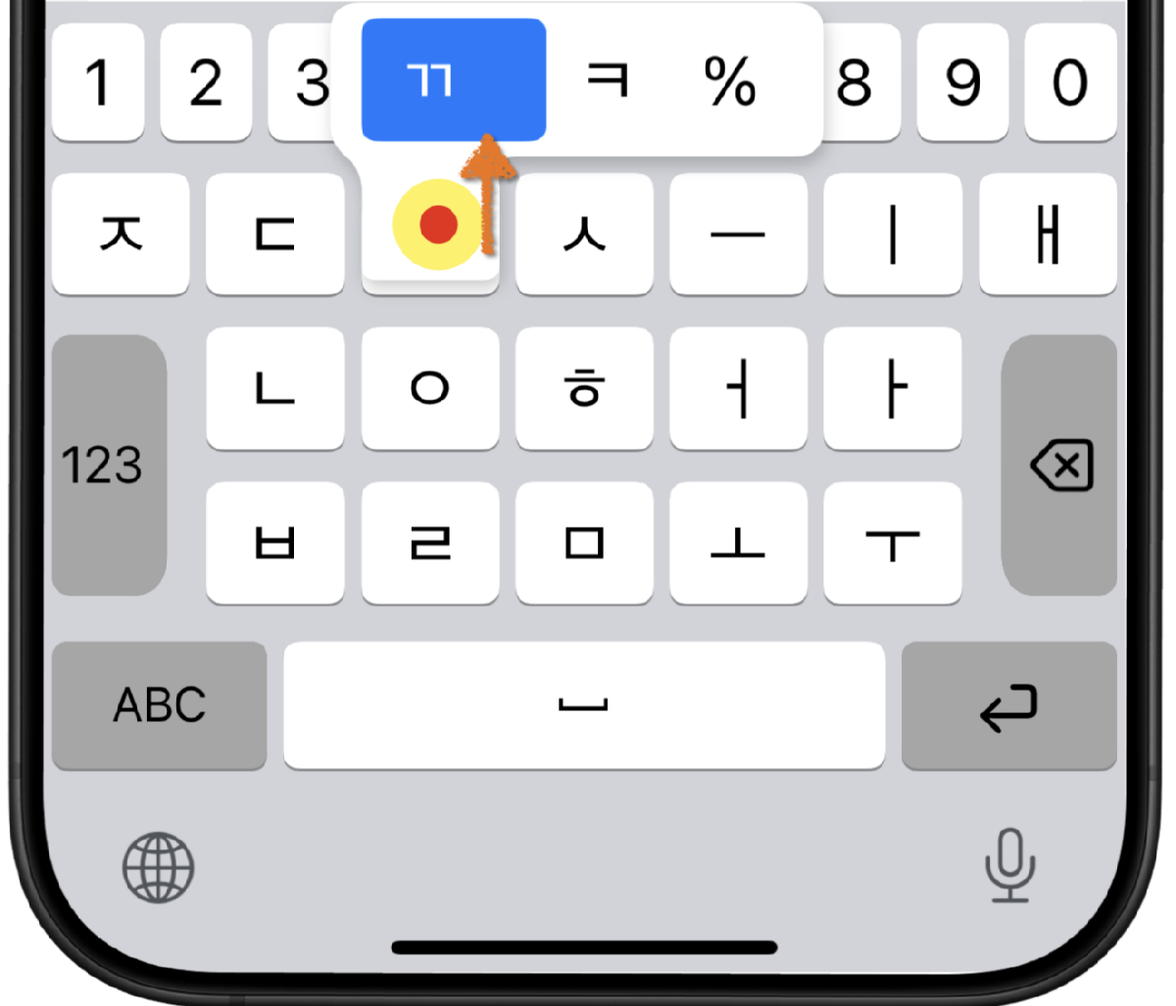
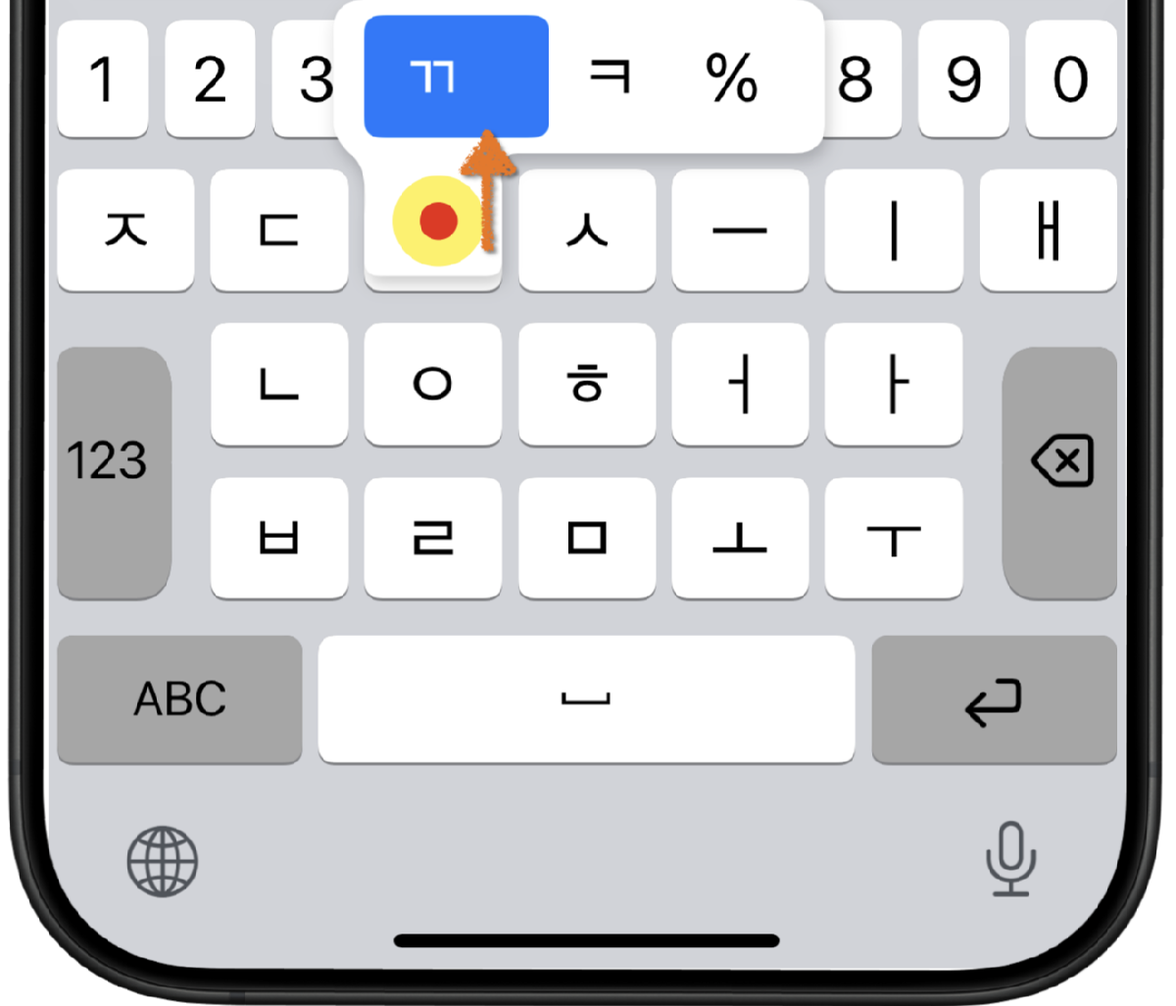
Add files via upload

diff --git a/manual.html b/manual.html
@@ -5,28 +5,28 @@
 	<meta name="viewport" content="width=device-width, initial-scale=1">
 	<meta name="generator" content="RocketCake">
 	<title></title>
-	<link rel="stylesheet" type="text/css" href="manual_html.css?h=e76957f0">
+	<link rel="stylesheet" type="text/css" href="manual_html.css?h=7f5da9fb">
 </head>
 <body>
 <div class="textstyle1">
-<div id="container_3a41f573"><div class="textstyle1"><div id="container_3ca14934"><div id="container_3ca14934_padding" ><div class="textstyle2"><div id="container_2e18e390"><div id="container_2e18e390_padding" ><div class="textstyle2"></div>
-<div class="textstyle1">  <span class="textstyle3">&#45800;&#51088;&#51020;&#53412;</span>
+<span class="textstyle2">&#12619;</span><div id="container_3a41f573"><div class="textstyle1"><div id="container_3ca14934"><div id="container_3ca14934_padding" ><div class="textstyle3"><div id="container_2e18e390"><div id="container_2e18e390_padding" ><div class="textstyle3"></div>
+<div class="textstyle1">  <span class="textstyle4">&#45800;&#51088;&#51020;&#53412;</span>
 </div>
-</div></div><div id="container_5e11d928"><div class="textstyle4"><div id="container_2d7b4969"><div class="textstyle4"><span class="textstyle5"><a href="index.html">Home</a></span><span class="textstyle5"><br/></span><span class="textstyle5"><a href="about.html">About</a></span><span class="textstyle5"><br/></span><span class="textstyle5"><a href="contact.html">Contact</a></span><span class="textstyle5"><br/></span><span class="textstyle6"><a href="manual.html">Manual</a></span><span class="textstyle5"><br/></span></div>
+</div></div><div id="container_5e11d928"><div class="textstyle5"><div id="container_2d7b4969"><div class="textstyle5"><span class="textstyle6"><a href="index.html">Home</a></span><span class="textstyle6"><br/></span><span class="textstyle6"><a href="about.html">About</a></span><span class="textstyle6"><br/></span><span class="textstyle6"><a href="contact.html">Contact</a></span><span class="textstyle6"><br/></span><span class="textstyle7"><a href="manual.html">Manual</a></span><span class="textstyle6"><br/></span></div>
 </div></div>
 </div></div>
-<div style="clear:both"></div></div></div><div id="container_42e1be39"><div class="textstyle1"><img src="rc_images/djmkey_dark_wide_0061_1200x690.png" width="1200" height="690" id="img_76372fca" alt="" title="" /></div>
-</div><span class="textstyle7"><br/></span><span class="textstyle8"><br/></span><div id="container_541cc4d"><div id="container_541cc4d_padding" ><div class="textstyle2"><span class="textstyle9"><br/><br/>    </span><span class="textstyle10">&#45800;&#51088;&#51020;&#53412; &#47700;&#45684;&#50620;<br/></span><span class="textstyle9"><br/></span><span class="textstyle9"><br/><br/></span><img src="rc_images/djmkey_light_004_1096x1200.png" width="1096" height="1200" id="img_3ca701ed" alt="" title="" /><div id="container_5ed9721c"><div id="container_5ed9721c_padding" ><div class="textstyle2"><span class="textstyle11">&#44217;&#51088;&#51020; &#48143; &#44221;&#51088;&#51020; &#47564;&#46308;&#44592; (&#52395;&#48264;&#51704; &#48169;&#48277;)</span><span class="textstyle12"><br/>&#50500;&#47000; &#51088;&#49548;&#46308;&#51008; &#45908;&#48660; &#53552;&#52824;&#47196; &#47564;&#46317;&#45768;&#45796;<br/>- &#51088;&#51020; 6&#44060;: &#12619; &#12620; &#12618; &#12621; &#12611; &#12614;   <br/>- &#47784;&#51020;: &#12625; &#12629; &#12635; ...<br/><br/>&#50500;&#47000; &#51088;&#49548;&#46308;&#51008; &#53944;&#47532;&#54540; &#53552;&#52824;&#47196; &#47564;&#46317;&#45768;&#45796;<br/>&#12594; &#12600; &#12617; (3&#44032;&#51648; &#51088;&#51020;)  <br/></span></div>
-</div></div><span class="textstyle9"><br/><br/><br/></span><img src="rc_images/djmkey_light_006_1200x1027.png" width="1200" height="1027" id="img_4902854c" alt="" title="" /><div id="container_62709428"><div id="container_62709428_padding" ><div class="textstyle2"><span class="textstyle11">&#44217;&#51088;&#51020; &#48143; &#44221;&#51088;&#51020; &#47564;&#46308;&#44592; (&#46160;&#48264;&#51704; &#48169;&#48277;)</span><span class="textstyle12"><br/>&#44217;&#51088;&#51020; &#45824;&#51025; &#53412; &#8216;&#12593;&#8217; &#48260;&#53948;&#51012; &#44600;&#44172; &#53552;&#52824; &#54980; &#50948;&#51901; &#48169;&#54693;&#51004;&#47196; &#54540;&#47549;(&#50424;&#50612;&#50732;&#47532;&#44592;) &#54633;&#45768;&#45796; </span></div>
-</div></div><span class="textstyle9"><br/><br/></span><img src="rc_images/djmkey_light_007.png" width="1320" height="968" id="img_250423ca" alt="" title="" /><div id="container_4c8cc367"><div id="container_4c8cc367_padding" ><div class="textstyle2"><span class="textstyle11">&#51096;&#47803; &#51077;&#47141;&#46108; &#44221;&#51088;&#49548;&#51032; &#45800;&#51088;&#49548; &#46308;&#51012; &#44221;&#51088;&#49548;&#47196; &#48320;&#54872;</span><span class="textstyle12"><br/>'&#12594;' &#51012; &#8216;&#12619;&#12593;&#8217; &#50752; &#44057;&#51060; &#51096;&#47803;&#51077;&#47141;&#54620; &#44163;&#51060;&#46972;&#47732; &#53412;&#48372;&#46300; &#50612;&#45712; &#44275;&#51060;&#46304; &#50500;&#47000; &#48169;&#54693;&#51004;&#47196; &#54540;&#47549;&#54633;&#45768;&#45796; <br/><br/></span><span class="textstyle11">&#51088;&#8203;&#49548; &#49325;&#51228; (&#46160;&#48264;&#51704; &#48169;&#48277;)</span><span class="textstyle12"><br/>&#50696;) '&#44036;' &#51012; &#51077;&#47141;&#54620; &#54980; '&#12596;'&#51012; &#49325;&#51228;&#54616;&#44592;&#50948;&#54644; &#50612;&#45712; &#44275;&#50640;&#49436;&#46304;&#51648; &#50500;&#47000; &#48169;&#54693;&#51004;&#47196; &#54540;&#47549;&#54633;&#45768;&#45796;</span></div>
-</div></div><span class="textstyle9"><br/><br/><br/></span><img src="rc_images/djmkey_light_008.png" width="1320" height="965" id="img_5475a51b" alt="" title="" /><div id="container_4fe2a894"><div id="container_4fe2a894_padding" ><div class="textstyle2"><span class="textstyle11">&#46160;&#48264;&#51704; &#53412; &#47564;&#46308;&#44592; (&#52395;&#48264;&#51704; &#48169;&#48277;)</span><span class="textstyle12"><br/>&#50696;) ' 8 &#8216; &#53412;&#47484; &#50948;&#54644; ' &#12622; '&#53412;&#47484; &#45572;&#47476;&#51088; &#47560;&#51088; &#50948; &#48169;&#54693; &#54540;&#47549;(&#50424;&#50612;&#50732;&#47532;&#44592;) &#54633;&#45768;&#45796;</span></div>
-</div></div><span class="textstyle9"><br/><br/><br/></span><img src="rc_images/djmkey_light_009.png" width="1320" height="969" id="img_1c6e0b8e" alt="" title="" /><div id="container_5a2c13b7"><div id="container_5a2c13b7_padding" ><div class="textstyle2"><span class="textstyle11">&#46160;&#48264;&#51704; &#53412; &#47564;&#46308;&#44592; (&#46160;&#48264;&#51704; &#48169;&#48277;)</span><span class="textstyle12"><br/>&#50696;) '8'&#53412;&#47484; &#47564;&#46308;&#44592;&#50948;&#54644; &#8216;123&#8217;&#53412;&#47484; 0.5&#52488; &#51060;&#49345; &#45572;&#47480; &#52292;&#47196; &#50628;&#51648;&#47484; '&#12622;' &#50948;&#52824;&#47196; &#45132;&#50612; &#49440;&#53469;&#54616;&#44144;&#45208; &#45796;&#47480; &#49552;&#44032;&#46973;&#51004;&#47196; &#45572;&#47493;&#45768;&#45796;<br/></span></div>
-</div></div><span class="textstyle9"><br/><br/><br/></span><img src="rc_images/djmkey_light_010_1200x1016.png" width="1200" height="1016" id="img_426fe36" alt="" title="" /><div id="container_7e510c81"><div id="container_7e510c81_padding" ><div class="textstyle2">  <span class="textstyle11">&#51088;&#51020; &#47784;&#51020; &#46041;&#49884;&#50640; &#45572;&#47476;&#44592; (&#47680;&#54000; &#53552;&#52824;) </span>
+<div style="clear:both"></div></div></div><div id="container_42e1be39"><div class="textstyle1"><img src="rc_images/djmkey_dark_wide_0061_1200x610.png" width="1200" height="610" id="img_3dbc5511" alt="" title="" /></div>
+</div><span class="textstyle8"><br/></span><span class="textstyle9"><br/></span><div id="container_541cc4d"><div id="container_541cc4d_padding" ><div class="textstyle3"><span class="textstyle2"><br/><br/>    </span><span class="textstyle10">&#45800;&#51088;&#51020;&#53412; &#47700;&#45684;&#50620;<br/></span><span class="textstyle2"><br/></span><span class="textstyle2"><br/><br/></span><img src="rc_images/djmkey_light_004_1104x1200.png" width="1104" height="1200" id="img_5be0ad15" alt="" title="" /><div id="container_5ed9721c"><div id="container_5ed9721c_padding" ><div class="textstyle3"><span class="textstyle11">&#44217;&#51088;&#51020; &#48143; &#44221;&#51088;&#51020; &#47564;&#46308;&#44592; (&#52395;&#48264;&#51704; &#48169;&#48277;)</span><span class="textstyle12"><br/>&#50500;&#47000; &#51088;&#49548;&#46308;&#51008; &#45908;&#48660; &#53552;&#52824;&#47196; &#47564;&#46317;&#45768;&#45796;<br/>- &#51088;&#51020; 6&#44060;: &#12619; &#12620; &#12618; &#12621; &#12611; &#12614;   <br/>- &#47784;&#51020;: &#12625; &#12629; &#12635; ...<br/><br/>&#50500;&#47000; &#51088;&#49548;&#46308;&#51008; &#53944;&#47532;&#54540; &#53552;&#52824;&#47196; &#47564;&#46317;&#45768;&#45796;<br/>&#12594; &#12600; &#12617; (3&#44032;&#51648; &#51088;&#51020;)  <br/></span></div>
+</div></div><span class="textstyle2"><br/><br/><br/></span><img src="rc_images/djmkey_light_006_1200x1027.png" width="1200" height="1027" id="img_15f9c727" alt="" title="" /><div id="container_62709428"><div id="container_62709428_padding" ><div class="textstyle3"><span class="textstyle11">&#44217;&#51088;&#51020; &#48143; &#44221;&#51088;&#51020; &#47564;&#46308;&#44592; (&#46160;&#48264;&#51704; &#48169;&#48277;)</span><span class="textstyle12"><br/>&#44217;&#51088;&#51020; &#45824;&#51025; &#53412; &#8216;&#12593;&#8217; &#48260;&#53948;&#51012; &#44600;&#44172; &#53552;&#52824; &#54980; &#50948;&#51901; &#48169;&#54693;&#51004;&#47196; &#54540;&#47549;(&#50424;&#50612;&#50732;&#47532;&#44592;) &#54633;&#45768;&#45796; </span></div>
+</div></div><span class="textstyle2"><br/><br/></span><img src="rc_images/djmkey_light_007.png" width="1320" height="964" id="img_297d27c3" alt="" title="" /><div id="container_4c8cc367"><div id="container_4c8cc367_padding" ><div class="textstyle3"><span class="textstyle11">&#51096;&#47803; &#51077;&#47141;&#46108; &#44221;&#51088;&#49548;&#51032; &#45800;&#51088;&#49548; &#46308;&#51012; &#44221;&#51088;&#49548;&#47196; &#48320;&#54872;</span><span class="textstyle12"><br/>'&#12594;' &#51012; &#8216;&#12619;&#12593;&#8217; &#50752; &#44057;&#51060; &#51096;&#47803;&#51077;&#47141;&#54620; &#44163;&#51060;&#46972;&#47732; &#53412;&#48372;&#46300; &#50612;&#45712; &#44275;&#51060;&#46304; &#50500;&#47000; &#48169;&#54693;&#51004;&#47196; &#54540;&#47549;&#54633;&#45768;&#45796; <br/><br/></span><span class="textstyle11">&#51088;&#8203;&#49548; &#49325;&#51228; (&#46160;&#48264;&#51704; &#48169;&#48277;)</span><span class="textstyle12"><br/>&#50696;) '&#44036;' &#51012; &#51077;&#47141;&#54620; &#54980; '&#12596;'&#51012; &#49325;&#51228;&#54616;&#44592;&#50948;&#54644; &#50612;&#45712; &#44275;&#50640;&#49436;&#46304;&#51648; &#50500;&#47000; &#48169;&#54693;&#51004;&#47196; &#54540;&#47549;&#54633;&#45768;&#45796;</span></div>
+</div></div><span class="textstyle2"><br/><br/><br/></span><img src="rc_images/djmkey_light_008.png" width="1320" height="971" id="img_71fbe97c" alt="" title="" /><div id="container_4fe2a894"><div id="container_4fe2a894_padding" ><div class="textstyle3"><span class="textstyle11">&#46160;&#48264;&#51704; &#53412; &#47564;&#46308;&#44592; (&#52395;&#48264;&#51704; &#48169;&#48277;)</span><span class="textstyle12"><br/>&#50696;) ' 8 &#8216; &#53412;&#47484; &#50948;&#54644; ' &#12622; '&#53412;&#47484; &#45572;&#47476;&#51088; &#47560;&#51088; &#50948; &#48169;&#54693; &#54540;&#47549;(&#50424;&#50612;&#50732;&#47532;&#44592;) &#54633;&#45768;&#45796;</span></div>
+</div></div><span class="textstyle2"><br/><br/><br/></span><img src="rc_images/djmkey_light_009.png" width="1320" height="965" id="img_1ebebf5c" alt="" title="" /><div id="container_5a2c13b7"><div id="container_5a2c13b7_padding" ><div class="textstyle3"><span class="textstyle11">&#46160;&#48264;&#51704; &#53412; &#47564;&#46308;&#44592; (&#46160;&#48264;&#51704; &#48169;&#48277;)</span><span class="textstyle12"><br/>&#50696;) '8'&#53412;&#47484; &#47564;&#46308;&#44592;&#50948;&#54644; &#8216;123&#8217;&#53412;&#47484; 0.5&#52488; &#51060;&#49345; &#45572;&#47480; &#52292;&#47196; &#50628;&#51648;&#47484; '&#12622;' &#50948;&#52824;&#47196; &#45132;&#50612; &#49440;&#53469;&#54616;&#44144;&#45208; &#45796;&#47480; &#49552;&#44032;&#46973;&#51004;&#47196; &#45572;&#47493;&#45768;&#45796;<br/></span></div>
+</div></div><span class="textstyle2"><br/><br/><br/></span><img src="rc_images/djmkey_light_010_1200x1019.png" width="1200" height="1019" id="img_80e4e6e" alt="" title="" /><div id="container_7e510c81"><div id="container_7e510c81_padding" ><div class="textstyle3">  <span class="textstyle11">&#51088;&#51020; &#47784;&#51020; &#46041;&#49884;&#50640; &#45572;&#47476;&#44592; (&#47680;&#54000; &#53552;&#52824;) </span>
   <span class="textstyle12"><br/>&#50696;) ' &#44036; ' : &#50628;&#51648;&#47484; &#46524;&#51648; &#50506;&#44256; &#45796;&#47480; &#50628;&#51648;&#47196; &#51088;&#49548;&#47484; &#45572;&#47476;&#45716; &#47680;&#54000; &#53552;&#52824;&#44032; &#50756;&#51204;&#54616;&#44172; &#44396;&#54788;&#46104;&#50612; &#51080;&#49845;&#45768;&#45796; </span>
 </div>
-</div></div><span class="textstyle9"><br/></span><img src="rc_images/djmkey_light_003_552x1200.png" width="552" height="1200" id="img_450824da" alt="" title="" /><div id="container_4a065c39"><div id="container_4a065c39_padding" ><div class="textstyle2">  <span class="textstyle12"><br/><br/><br/><br/><br/>&#50741;&#49496; &#47588;&#45684;&#51077;&#45768;&#45796;<br/></span>
+</div></div><span class="textstyle2"><br/></span><img src="rc_images/djmkey_light_003_552x1200.png" width="552" height="1200" id="img_450824da" alt="" title="" /><div id="container_4a065c39"><div id="container_4a065c39_padding" ><div class="textstyle3">  <span class="textstyle12"><br/><br/><br/><br/><br/>&#50741;&#49496; &#47588;&#45684;&#51077;&#45768;&#45796;<br/></span>
 </div>
-</div></div><span class="textstyle9"><br/></span><span class="textstyle9"><br/></span></div>
+</div></div><span class="textstyle2"><br/></span><span class="textstyle2"><br/></span></div>
 <div style="clear:both"></div></div></div><span class="textstyle13"><br/></span><span class="textstyle14">Copyright 2025 &#51648;&#45824;&#49440;. All rights reserved</span><span class="textstyle13"><br/></span></div>
 </div>  </div>
 </body>

diff --git a/index.html b/index.html
@@ -7,7 +7,7 @@
 <meta name="keywords" content=“단자음키, 단자음키보드, 엄지키, 엄지키보드, 한글키보드추천, 아이폰한글키보드, 한글키, 한글키보드, 단모음, 단키, 넥스트플랜, nextplan, 핸드폰”>
 <meta name="description" content=“단자음키는 핸드폰에서 한글 입력시 단자음 10키와 단모음 8키를 이용하며 자동 오타 교정과 함께 동시 누름 방식을 적용하여 자연스러운 키 입력이 되도록 하였음”>
 <title>단자음키 한글 키보드</title>
-	<link rel="stylesheet" type="text/css" href="index_html.css?h=94f8d3e3">
+	<link rel="stylesheet" type="text/css" href="index_html.css?h=9ace95ab">
 </head>
 <body>
 <div class="textstyle1">
@@ -17,7 +17,7 @@
 </div></div><div id="container_785dbb6"><div class="textstyle4"><div id="container_77609974"><div class="textstyle4"><span class="textstyle5"><a href="index.html">Home</a></span><span class="textstyle5"><br/></span><span class="textstyle5"><a href="about.html">About</a></span><span class="textstyle5"><br/></span><span class="textstyle5"><a href="contact.html">Contact</a></span><span class="textstyle5"><br/></span><span class="textstyle6"><a href="manual.html">Manual</a></span></div>
 </div></div>
 </div></div>
-<div style="clear:both"></div></div></div><div id="container_4a5a90a8"><div class="textstyle2"><img src="rc_images/djmkey_dark_wide_001_1104x1200.png" width="1104" height="1200" id="img_614a360" alt="" title="" /></div>
+<div style="clear:both"></div></div></div><div id="container_4a5a90a8"><div class="textstyle2"><img src="rc_images/djmkey_dark_wide_001_1104x1200.png" width="1104" height="1200" id="img_2145fd1" alt="" title="" /></div>
 <div class="textstyle1"><span class="textstyle7"><br/></span><a href="about.html" style="text-decoration:none"><div id="button_263f8a00"><div class="vcenterstyle1"><div class="vcenterstyle2"><div class="textstyle2"></div>
 <div class="textstyle1">  <span class="textstyle8">About</span>
 </div>
@@ -33,7 +33,7 @@
 <div style="clear:both"></div></div></div></div>
 <div style="clear:both"></div></div></div></div>
 <div class="textstyle2"><span class="textstyle13"><br/></span></div>
-<div class="textstyle1"><div id="container_28baa5e8"><div id="container_28baa5e8_padding" ><div class="textstyle2"><span class="textstyle14">&#50500;&#51060;&#54256; &#51221;&#44508; &#53412;&#48372;&#46300;&#44032; &#48520;&#54200;&#54616;&#44172; &#45712;&#44788;&#48376; &#51201;&#51060; &#51080;&#45796;&#47732; &#44536;&#44163;&#51008; &#50500;&#47560;, &#51088;&#49548; &#44208;&#54633;&#51004;&#47196; &#44396;&#49457;&#46104;&#45716; &#54620;&#44544;&#51032; &#53945;&#49457;&#51012; &#51228;&#45824;&#47196; &#48152;&#50689;&#54616;&#51648; &#47803;&#54616;&#45716; &#54620;&#44228;&#47484; &#45712;&#45180;&#44592; &#46412;&#47928;&#51068; &#44163;&#51077;&#45768;&#45796;<br/>&#51333;&#49457;&#44284; &#52488;&#49457;&#51012; &#54632;&#44760; &#49324;&#50857;&#54616;&#44256; &#51088;&#49548; &#44208;&#54633;&#51012; &#53945;&#49457;&#51004;&#47196; &#54616;&#45716; &#54620;&#44544;&#51012; &#50728;&#51204;&#55176; &#49324;&#50857;&#54624; &#49688; &#51080;&#50612;&#50556;&#44192;&#49845;&#45768;&#45796;<br/></span><span class="textstyle15">v1.4 (4&#50900; 30&#51068; &#50629;&#47196;&#46300; &#50696;&#51221; )<br/>&#53412; &#48372;&#46300; &#51088;&#54032; &#48176;&#50676; 18&#44060;&#50640;&#49436; 17&#44060;&#47196; &#48320;&#44221;<br/>-&gt; &#53412; &#48372;&#46300; &#48176;&#50676;&#51012; &#49884;&#51064;&#49457;&#51012; &#51339;&#44172;&#54616;&#44592;&#50948;&#54644; &#48148;&#46161;&#54032; &#49885; &#48176;&#50676;<br/>-&gt; &#51088;&#51020;&#44284; &#47784;&#51020; &#51088;&#54032; &#48176;&#50676;&#51060; &#49436;&#47196; &#52840;&#48276;&#54616;&#51648; &#50506;&#50500; &#51077;&#47141; &#49549;&#46020; &#54693;&#49345;</span><span class="textstyle14"><br/><br/></span><span class="textstyle16">[ &#44592;&#51316; &#45796;&#47480; &#53412;&#48372;&#46300;&#48372;&#45796; &#44060;&#49440;&#46108; &#51216; ]</span><span class="textstyle14"><br/></span><span class="textstyle17">1. &#48260;&#53948;&#51032; &#44079;&#49688;&#47484; &#53552;&#52824;&#50640; &#51201;&#45817;&#54620; &#44079;&#49688;&#47196; &#54616;&#50688;&#49845;&#45768;&#45796;</span><span class="textstyle14"><br/>   &#48260;&#53948;&#51060; &#45320;&#47924; &#47566;&#51004;&#47732; &#53552;&#52824; &#54943;&#49688;&#45716; &#51201;&#51004;&#45208; &#53552;&#52824; &#49892;&#49688; &#50724;&#53440;&#44032; &#47566;&#44256; &#45320;&#47924; &#51201;&#51004;&#47732; &#53412;&#51064; &#54943;&#49688;&#45716; &#51613;&#44032;&#46104;&#45208; &#53552;&#52824; &#49892;&#49688;&#44032; &#51201;&#50612;&#51665;&#45768;&#45796; <br/></span><span class="textstyle17">2. &#52572;&#45824;&#54620; &#48736;&#47480; &#53412;&#51064;&#51012; &#54624; &#49688; &#51080;&#46020;&#47197; &#54616;&#50688;&#49845;&#45768;&#45796;</span><span class="textstyle14"><br/>   &#50896;&#53552;&#52824;,&#45908;&#48660;&#53552;&#52824;,3&#45908;&#48660;&#53552;&#52824;(&#12594;,&#12600;, &#12617; 3&#44060;)&#47484; &#49324;&#50857;&#54616;&#50668; &#51648;&#50672; &#53552;&#52824;(&#54413;&#49440; &#47568; &#49324;&#50857;&#46321;) &#50630;&#51060; &#45233;&#47568;&#51060; &#50756;&#49457;&#46121;&#45768;&#45796;<br/>3. &#45908;&#48660;&#53552;&#52824;&#47448;&#51032; &#51088;&#49548;&#47196; &#51064;&#54620; &#50724;&#53440;(&#12619; -&gt; &#12593;&#12593;)&#47484; &#44368;&#51221;&#54616;&#45716; &#51088;&#46041; &#44053;&#51228;&#44368;&#51221; &#48143; &#44397;&#50612;&#49324;&#51204;(&#44397;&#47549;&#44397;&#50612;&#50896; &#54364;&#51456;&#44592;&#52488;&#49324;&#51204;)&#51012; &#52280;&#44256;&#54616;&#45716; &#51088;&#46041; &#49324;&#51204;&#44368;&#51221;&#51004;&#47196; &#52376;&#47532;&#54633;&#45768;&#45796;<br/>4. &#50577;&#49552; &#50628;&#51648;&#47484; &#46041;&#49884;&#50640; &#45572;&#47476;&#47728; &#53412;&#51064;&#51012; &#51060;&#50612;&#44032;&#45716; &#47680;&#54000;&#53552;&#52824;&#44032; &#50756;&#51204;&#54616;&#44172; &#44396;&#54788;&#46104;&#50612; &#51080;&#49845;&#45768;&#45796; &#45236;&#48512;&#51201;&#51004;&#47196; &#51088;&#46041;&#44368;&#51221;&#51060; &#51652;&#54665;&#46104;&#50612;&#46020; &#51221;&#49345; &#52376;&#47532;&#46121;&#45768;&#45796;<br/><br/><br/></span></div>
+<div class="textstyle1"><div id="container_28baa5e8"><div id="container_28baa5e8_padding" ><div class="textstyle2"><span class="textstyle14">&#50500;&#51060;&#54256; &#51221;&#44508; &#53412;&#48372;&#46300;&#44032; &#48520;&#54200;&#54616;&#44172; &#45712;&#44788;&#48376; &#51201;&#51060; &#51080;&#45796;&#47732; &#44536;&#44163;&#51008; &#50500;&#47560;, &#51088;&#49548; &#44208;&#54633;&#51004;&#47196; &#44396;&#49457;&#46104;&#45716; &#54620;&#44544;&#51032; &#53945;&#49457;&#51012; &#51228;&#45824;&#47196; &#48152;&#50689;&#54616;&#51648; &#47803;&#54616;&#45716; &#54620;&#44228;&#47484; &#45712;&#45180;&#44592; &#46412;&#47928;&#51068; &#44163;&#51077;&#45768;&#45796;<br/>&#51333;&#49457;&#44284; &#52488;&#49457;&#51012; &#54632;&#44760; &#49324;&#50857;&#54616;&#44256; &#51088;&#49548; &#44208;&#54633;&#51012; &#53945;&#49457;&#51004;&#47196; &#54616;&#45716; &#54620;&#44544;&#51012; &#50728;&#51204;&#55176; &#49324;&#50857;&#54624; &#49688; &#51080;&#50612;&#50556;&#44192;&#49845;&#45768;&#45796;<br/><br/>v1.4 (4/30 &#48176;&#54252; &#50696;&#51221;)<br/></span><span class="textstyle15">&#53412; &#48372;&#46300; &#51088;&#54032; &#48176;&#50676; 18&#44060;&#50640;&#49436; 17&#44060;&#47196; &#48320;&#44221;<br/>-&gt; &#53412; &#48372;&#46300; &#48176;&#50676;&#51012; &#49884;&#51064;&#49457;&#51012; &#51339;&#44172;&#54616;&#44592;&#50948;&#54644; &#48148;&#46161;&#54032; &#49885; &#48176;&#50676;<br/>-&gt; &#51088;&#51020;&#44284; &#47784;&#51020; &#51088;&#54032; &#48176;&#50676;&#51060; &#49436;&#47196; &#52840;&#48276;&#54616;&#51648; &#50506;&#50500; &#51077;&#47141; &#49549;&#46020; &#54693;&#49345;</span><span class="textstyle14"><br/><br/></span><span class="textstyle16">[ &#44592;&#51316; &#45796;&#47480; &#53412;&#48372;&#46300;&#48372;&#45796; &#44060;&#49440;&#46108; &#51216; ]</span><span class="textstyle14"><br/></span><span class="textstyle17">1. &#48260;&#53948;&#51032; &#44079;&#49688;&#47484; &#53552;&#52824;&#50640; &#51201;&#45817;&#54620; &#44079;&#49688;&#47196; &#54616;&#50688;&#49845;&#45768;&#45796;</span><span class="textstyle14"><br/>   &#48260;&#53948;&#51060; &#45320;&#47924; &#47566;&#51004;&#47732; &#53552;&#52824; &#54943;&#49688;&#45716; &#51201;&#51004;&#45208; &#53552;&#52824; &#49892;&#49688; &#50724;&#53440;&#44032; &#47566;&#44256; &#45320;&#47924; &#51201;&#51004;&#47732; &#53412;&#51064; &#54943;&#49688;&#45716; &#51613;&#44032;&#46104;&#45208; &#53552;&#52824; &#49892;&#49688;&#44032; &#51201;&#50612;&#51665;&#45768;&#45796; <br/></span><span class="textstyle17">2. &#52572;&#45824;&#54620; &#48736;&#47480; &#53412;&#51064;&#51012; &#54624; &#49688; &#51080;&#46020;&#47197; &#54616;&#50688;&#49845;&#45768;&#45796;</span><span class="textstyle14"><br/>   &#50896;&#53552;&#52824;,&#45908;&#48660;&#53552;&#52824;,3&#45908;&#48660;&#53552;&#52824;(&#12594;,&#12600;, &#12617; 3&#44060;)&#47484; &#49324;&#50857;&#54616;&#50668; &#51648;&#50672; &#53552;&#52824;(&#54413;&#49440; &#47568; &#49324;&#50857;&#46321;) &#50630;&#51060; &#45233;&#47568;&#51060; &#50756;&#49457;&#46121;&#45768;&#45796;<br/>3. &#45908;&#48660;&#53552;&#52824;&#47448;&#51032; &#51088;&#49548;&#47196; &#51064;&#54620; &#50724;&#53440;(&#12619; -&gt; &#12593;&#12593;)&#47484; &#44368;&#51221;&#54616;&#45716; &#51088;&#46041; &#44053;&#51228;&#44368;&#51221; &#48143; &#44397;&#50612;&#49324;&#51204;(&#44397;&#47549;&#44397;&#50612;&#50896; &#54364;&#51456;&#44592;&#52488;&#49324;&#51204;)&#51012; &#52280;&#44256;&#54616;&#45716; &#51088;&#46041; &#49324;&#51204;&#44368;&#51221;&#51004;&#47196; &#52376;&#47532;&#54633;&#45768;&#45796;<br/>4. &#50577;&#49552; &#50628;&#51648;&#47484; &#46041;&#49884;&#50640; &#45572;&#47476;&#47728; &#53412;&#51064;&#51012; &#51060;&#50612;&#44032;&#45716; &#47680;&#54000;&#53552;&#52824;&#44032; &#50756;&#51204;&#54616;&#44172; &#44396;&#54788;&#46104;&#50612; &#51080;&#49845;&#45768;&#45796; &#45236;&#48512;&#51201;&#51004;&#47196; &#51088;&#46041;&#44368;&#51221;&#51060; &#51652;&#54665;&#46104;&#50612;&#46020; &#51221;&#49345; &#52376;&#47532;&#46121;&#45768;&#45796;<br/><br/><br/></span></div>
 </div></div></div>
 <div class="textstyle2"><span class="textstyle10"><br/></span><div id="container_749be54d"><div id="container_749be54d_padding" ><div class="textstyle1"><span class="textstyle18"><br/></span><div id="container_7ea221bd"><div id="container_7ea221bd_padding" ><div class="textstyle2"><span class="textstyle19">&#45800;&#51088;&#51020;&#53412;&#48372;&#46300;&#44032; &#51080;&#49845;&#45768;&#45796;!</span><span class="textstyle20"><br/><br/></span><span class="textstyle21">&#54200;&#50504;&#54620; &#48260;&#53948; &#53356;&#44592;, <br/>&#53552;&#52824; &#53412;&#51064; &#55120;&#47492;&#51012; &#44536;&#45824;&#47196; &#51060;&#50612;&#44032;&#45716;,<br/>&#50724;&#53440; &#50630;&#45716; &#53412; &#51077;&#47141;&#51060; &#44032;&#45733;&#54633;&#45768;&#45796;.<br/></span></div>
 </div></div><span class="textstyle22"><br/><br/></span></div>

diff --git a/manual_html.css b/manual_html.css
@@ -4,44 +4,44 @@ a:active { color:#0280E1; }
 a:hover { color:#B2B3B4; } 
 body { background-color:#FFFFFF; padding:0;  margin: 0; }
 .textstyle1 { text-align:center; }
+.textstyle2 { font-size:12pt; font-family:Arial, Helvetica, sans-serif; color:#000000;  }
 #container_3a41f573 { vertical-align: top; position:relative; display: inline-block; width:100%; background:none;  }
 #container_3ca14934 { vertical-align: top; position:relative; display: inline-block; width:100%; min-height:65px; background-color:#222222;  }
 #container_3ca14934_padding { margin: 10px; display: block;  }
-.textstyle2 { text-align:left; }
+.textstyle3 { text-align:left; }
 #container_2e18e390 { vertical-align: top; position:relative; display: inline-block; width:40%; min-height:60px; background:none;  }
 #container_2e18e390_padding { margin: 10px; display: block;  }
-.textstyle3 { font-size:44pt; font-family:Segoe, 'Segoe UI', 'Helvetica Neue', sans-serif; color:#FFFFFF; font-weight:bold;  }
+.textstyle4 { font-size:44pt; font-family:Segoe, 'Segoe UI', 'Helvetica Neue', sans-serif; color:#FFFFFF; font-weight:bold;  }
 #container_5e11d928 { vertical-align: top; position:relative; display: inline-block; width:60%; min-height:50px; background:none;  }
-.textstyle4 { text-align:right; }
+.textstyle5 { text-align:right; }
 #container_2d7b4969 { vertical-align: top; position:relative; display: inline-block; width:100%; background:none;  }
-.textstyle5 { font-size:14pt; font-family:Arial, Helvetica, sans-serif; color:#FFFFFF;  }
-.textstyle6 { font-size:14pt; font-family:Arial, Helvetica, sans-serif; color:#FFFFFF; font-weight:bold;  }
+.textstyle6 { font-size:14pt; font-family:Arial, Helvetica, sans-serif; color:#FFFFFF;  }
+.textstyle7 { font-size:14pt; font-family:Arial, Helvetica, sans-serif; color:#FFFFFF; font-weight:bold;  }
 #container_42e1be39 { vertical-align: top; position:relative; display: inline-block; width:100%; min-height:156px; background-color:#2B252D; background: linear-gradient(to bottom, #9A9AE0, #2B252D);  }
-#img_76372fca { vertical-align: bottom; position:relative; display: inline-block; width:50%; background:none; height:auto;  }
-.textstyle7 { font-size:15pt; font-family:Segoe, 'Segoe UI', 'Helvetica Neue', sans-serif; color:#20242E;  }
-.textstyle8 { font-size:15pt; font-family:Tahoma, Geneva, sans-serif; color:#20242E;  }
+#img_3dbc5511 { vertical-align: bottom; position:relative; display: inline-block; width:50%; background:none; height:auto;  }
+.textstyle8 { font-size:15pt; font-family:Segoe, 'Segoe UI', 'Helvetica Neue', sans-serif; color:#20242E;  }
+.textstyle9 { font-size:15pt; font-family:Tahoma, Geneva, sans-serif; color:#20242E;  }
 #container_541cc4d { vertical-align: top; position:relative; display: inline-block; width:90%; min-height:150px; background:none;  }
 #container_541cc4d_padding { margin: 10px; display: block;  }
-.textstyle9 { font-size:12pt; font-family:Arial, Helvetica, sans-serif; color:#000000;  }
 .textstyle10 { font-size:22pt; font-family:Arial, Helvetica, sans-serif; color:#000000; font-weight:bold;  }
-#img_3ca701ed { vertical-align: bottom; position:relative; display: inline-block; width:50%; background:none; height:auto;  }
+#img_5be0ad15 { vertical-align: bottom; position:relative; display: inline-block; width:50%; background:none; height:auto;  }
 #container_5ed9721c { vertical-align: top; position:relative; display: inline-block; width:50%; min-height:150px; background:none;  }
 #container_5ed9721c_padding { margin: 20px 20px 20px 15px;display: block;  }
 .textstyle11 { font-size:13pt; font-family:Arial, Helvetica, sans-serif; color:#000000; font-weight:bold;  }
 .textstyle12 { font-size:13pt; font-family:Arial, Helvetica, sans-serif; color:#000000;  }
-#img_4902854c { vertical-align: bottom; position:relative; display: inline-block; width:50%; background:none; height:auto;  }
+#img_15f9c727 { vertical-align: bottom; position:relative; display: inline-block; width:50%; background:none; height:auto;  }
 #container_62709428 { vertical-align: top; position:relative; display: inline-block; width:50%; min-height:150px; background:none;  }
 #container_62709428_padding { margin: 20px 20px 20px 15px;display: block;  }
-#img_250423ca { vertical-align: bottom; position:relative; display: inline-block; width:50%; background:none; height:auto;  }
+#img_297d27c3 { vertical-align: bottom; position:relative; display: inline-block; width:50%; background:none; height:auto;  }
 #container_4c8cc367 { vertical-align: top; position:relative; display: inline-block; width:50%; min-height:150px; background:none;  }
 #container_4c8cc367_padding { margin: 20px 20px 20px 15px;display: block;  }
-#img_5475a51b { vertical-align: bottom; position:relative; display: inline-block; width:50%; background:none; height:auto;  }
+#img_71fbe97c { vertical-align: bottom; position:relative; display: inline-block; width:50%; background:none; height:auto;  }
 #container_4fe2a894 { vertical-align: top; position:relative; display: inline-block; width:50%; min-height:150px; background:none;  }
 #container_4fe2a894_padding { margin: 20px 20px 20px 15px;display: block;  }
-#img_1c6e0b8e { vertical-align: bottom; position:relative; display: inline-block; width:50%; background:none; height:auto;  }
+#img_1ebebf5c { vertical-align: bottom; position:relative; display: inline-block; width:50%; background:none; height:auto;  }
 #container_5a2c13b7 { vertical-align: top; position:relative; display: inline-block; width:50%; min-height:150px; background:none;  }
 #container_5a2c13b7_padding { margin: 20px 20px 20px 15px;display: block;  }
-#img_426fe36 { vertical-align: bottom; position:relative; display: inline-block; width:50%; background:none; height:auto;  }
+#img_80e4e6e { vertical-align: bottom; position:relative; display: inline-block; width:50%; background:none; height:auto;  }
 #container_7e510c81 { vertical-align: top; position:relative; display: inline-block; width:50%; min-height:150px; background:none;  }
 #container_7e510c81_padding { margin: 20px 20px 20px 15px;display: block;  }
 #img_450824da { vertical-align: bottom; position:relative; display: inline-block; width:50%; background:none; height:auto;  }

diff --git a/index_html.css b/index_html.css
@@ -26,7 +26,7 @@ body { background-color:#FFFFFF; padding:0;  margin: 0; }
 .textstyle5 { font-size:14pt; font-family:Arial, Helvetica, sans-serif; color:#FFFFFF;  }
 .textstyle6 { font-size:14pt; font-family:Arial, Helvetica, sans-serif; color:#FFFFFF; font-weight:bold;  }
 #container_4a5a90a8 { vertical-align: top; position:relative; display: inline-block; width:100%; min-height:215px; background:none;  }
-#img_614a360 { vertical-align: bottom; position:relative; display: inline-block; width:100%; background:none; height:auto;  }
+#img_2145fd1 { vertical-align: bottom; position:relative; display: inline-block; width:100%; background:none; height:auto;  }
 .textstyle7 { font-size:22pt; font-family:Arial, Helvetica, sans-serif; color:#000000;  }
 .vcenterstyle1 { display: table; width: 100%; height: 100%; }
 .vcenterstyle2 { display: table-cell; vertical-align: middle; }
